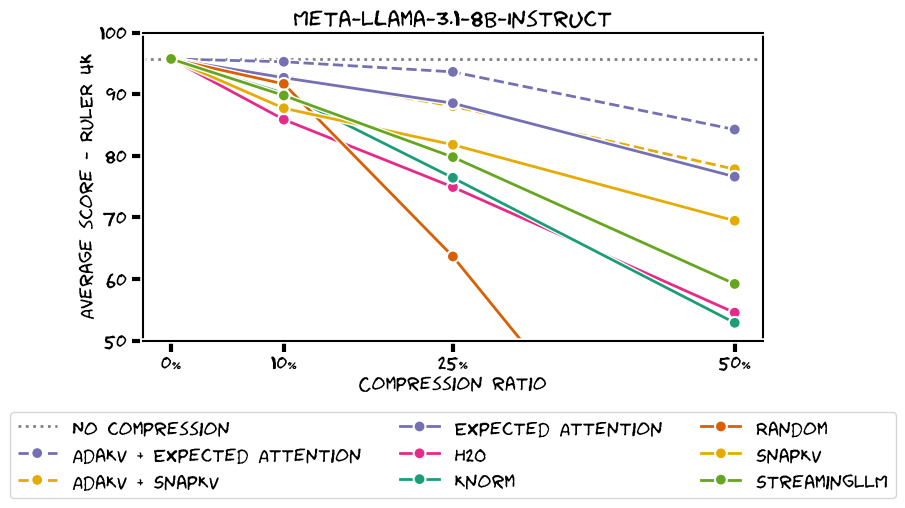
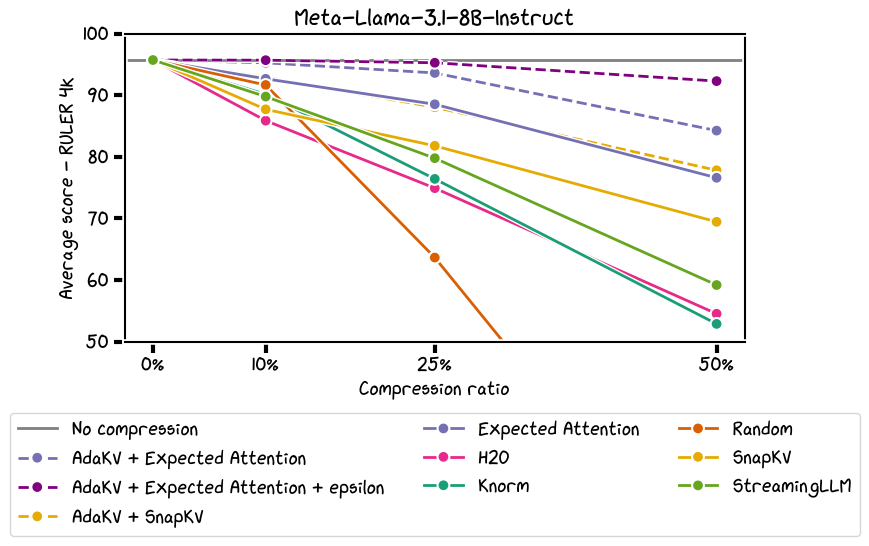
Add epsilon to ExpectedAttentionPress (#47)

diff --git a/kvpress/presses/expected_attention_press.py b/kvpress/presses/expected_attention_press.py
@@ -22,7 +22,7 @@ class ExpectedAttentionPress(ScorerPress):
         3. Apply R to the mean and covariance matrice of the queries.
         4. As attention A = exp(Q @ K / sqrt(d)), we compute the expected attention
         E(A) = exp(K @ mean.T / sqrt(d) + 1/2 K @ cov @ K.T / d)
-        5. Rescale the scores by the norm of the values
+        5. Rescale the scores using (scores + epsilon) * ||V||_2
     The first n_sink tokens are removed from calculations (sink attention phenomenon).
     """
 
@@ -31,6 +31,7 @@ class ExpectedAttentionPress(ScorerPress):
     n_sink: int = 4
     use_covariance: bool = True
     use_vnorm: bool = True
+    epsilon: float = 0.0
 
     def get_query_statistics(self, module: nn.Module, hidden_states: torch.Tensor):
         """
@@ -126,7 +127,7 @@ class ExpectedAttentionPress(ScorerPress):
 
         # Rescale scores by the norm of the values
         if self.use_vnorm:
-            scores = scores * values.norm(dim=-1)
+            scores = (scores + self.epsilon) * values.norm(dim=-1)
 
         # Add back the sink tokens. Use max score to make sure they are not pruned.
         scores = F.pad(scores, (self.n_sink, 0), value=scores.max().item())

diff --git a/evaluation/evaluate.py b/evaluation/evaluate.py
@@ -54,6 +54,7 @@ PRESS_DICT = {
     "adasnapkv": AdaKVPress(SnapKVPress()),
     "ada_expected_attention": AdaKVPress(ExpectedAttentionPress()),
     "expected_attention": ExpectedAttentionPress(),
+    "ada_expected_attention_e2": AdaKVPress(ExpectedAttentionPress(epsilon=1e-2)),
     "knorm": KnormPress(),
     "observed_attention": ObservedAttentionPress(),
     "random": RandomPress(),

diff --git a/README.md b/README.md
@@ -1,7 +1,8 @@
 [![PyPI version](https://badge.fury.io/py/kvpress.svg)](https://badge.fury.io/py/kvpress)
-[![License](https://img.shields.io/badge/License-Apache%202.0-blue.svg)](https://opensource.org/licenses/Apache-2.0)
+[![License](https://img.shields.io/badge/License-Apache%202.0-green.svg)](https://opensource.org/licenses/Apache-2.0)
 [![Colab example notebook](https://colab.research.google.com/assets/colab-badge.svg)](https://colab.research.google.com/drive/1JNvaTKuuAHrl49dYB9-mdEH_y52Ib-NP?usp=drive_link)
 [![Hugging Face Space](https://img.shields.io/badge/🤗%20Hugging%20Face-Space-blue)](https://huggingface.co/spaces/nvidia/kvpress)
+[![Blog post](https://img.shields.io/badge/🤗%20Hugging%20Face-Blog-blue)](https://huggingface.co/blog/nvidia/kvpress)
 
 
 ![kvpress](kvpress.jpg)
